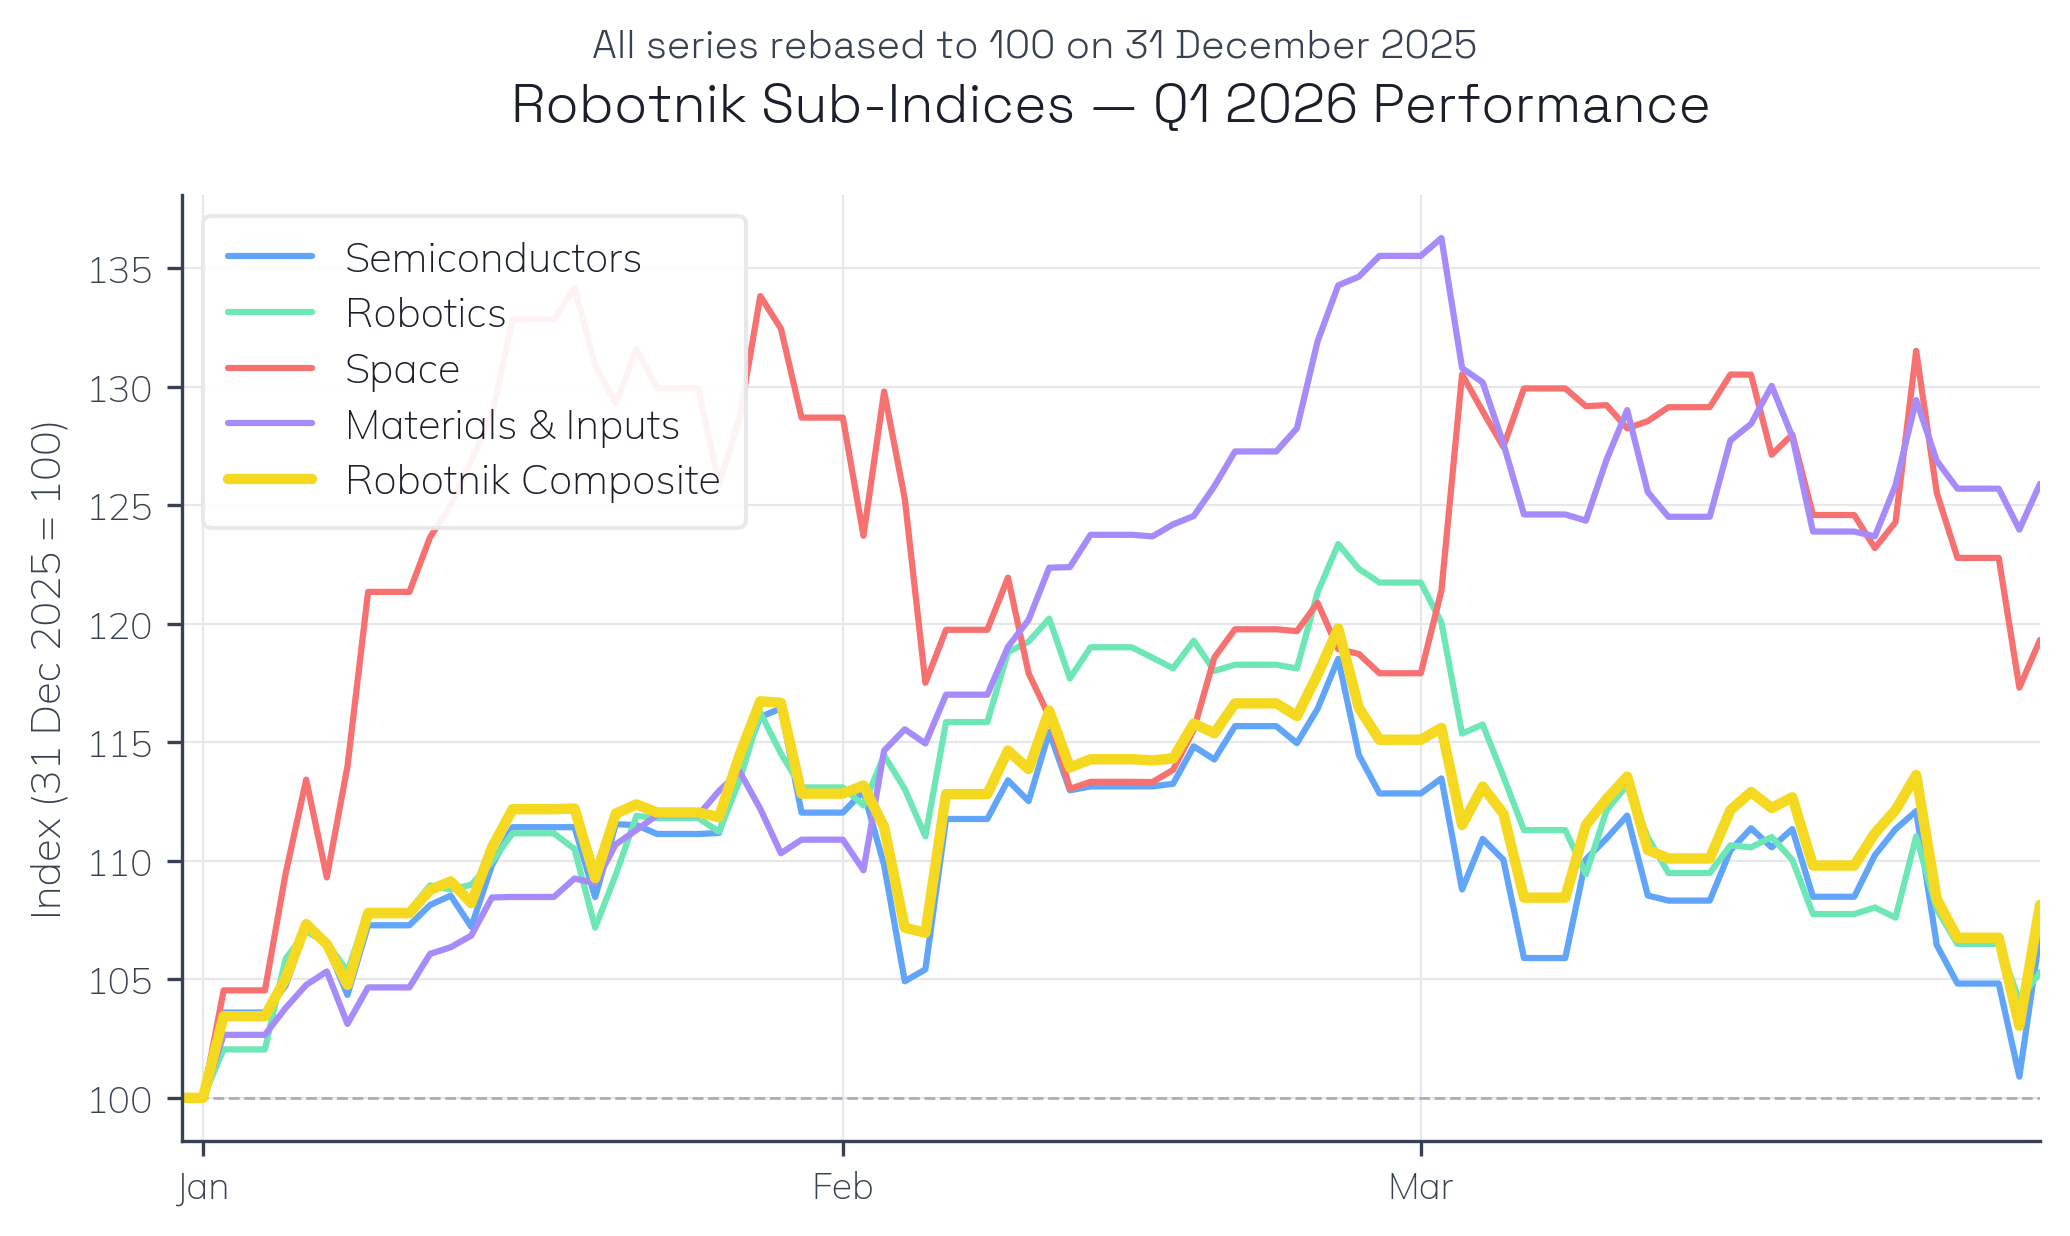
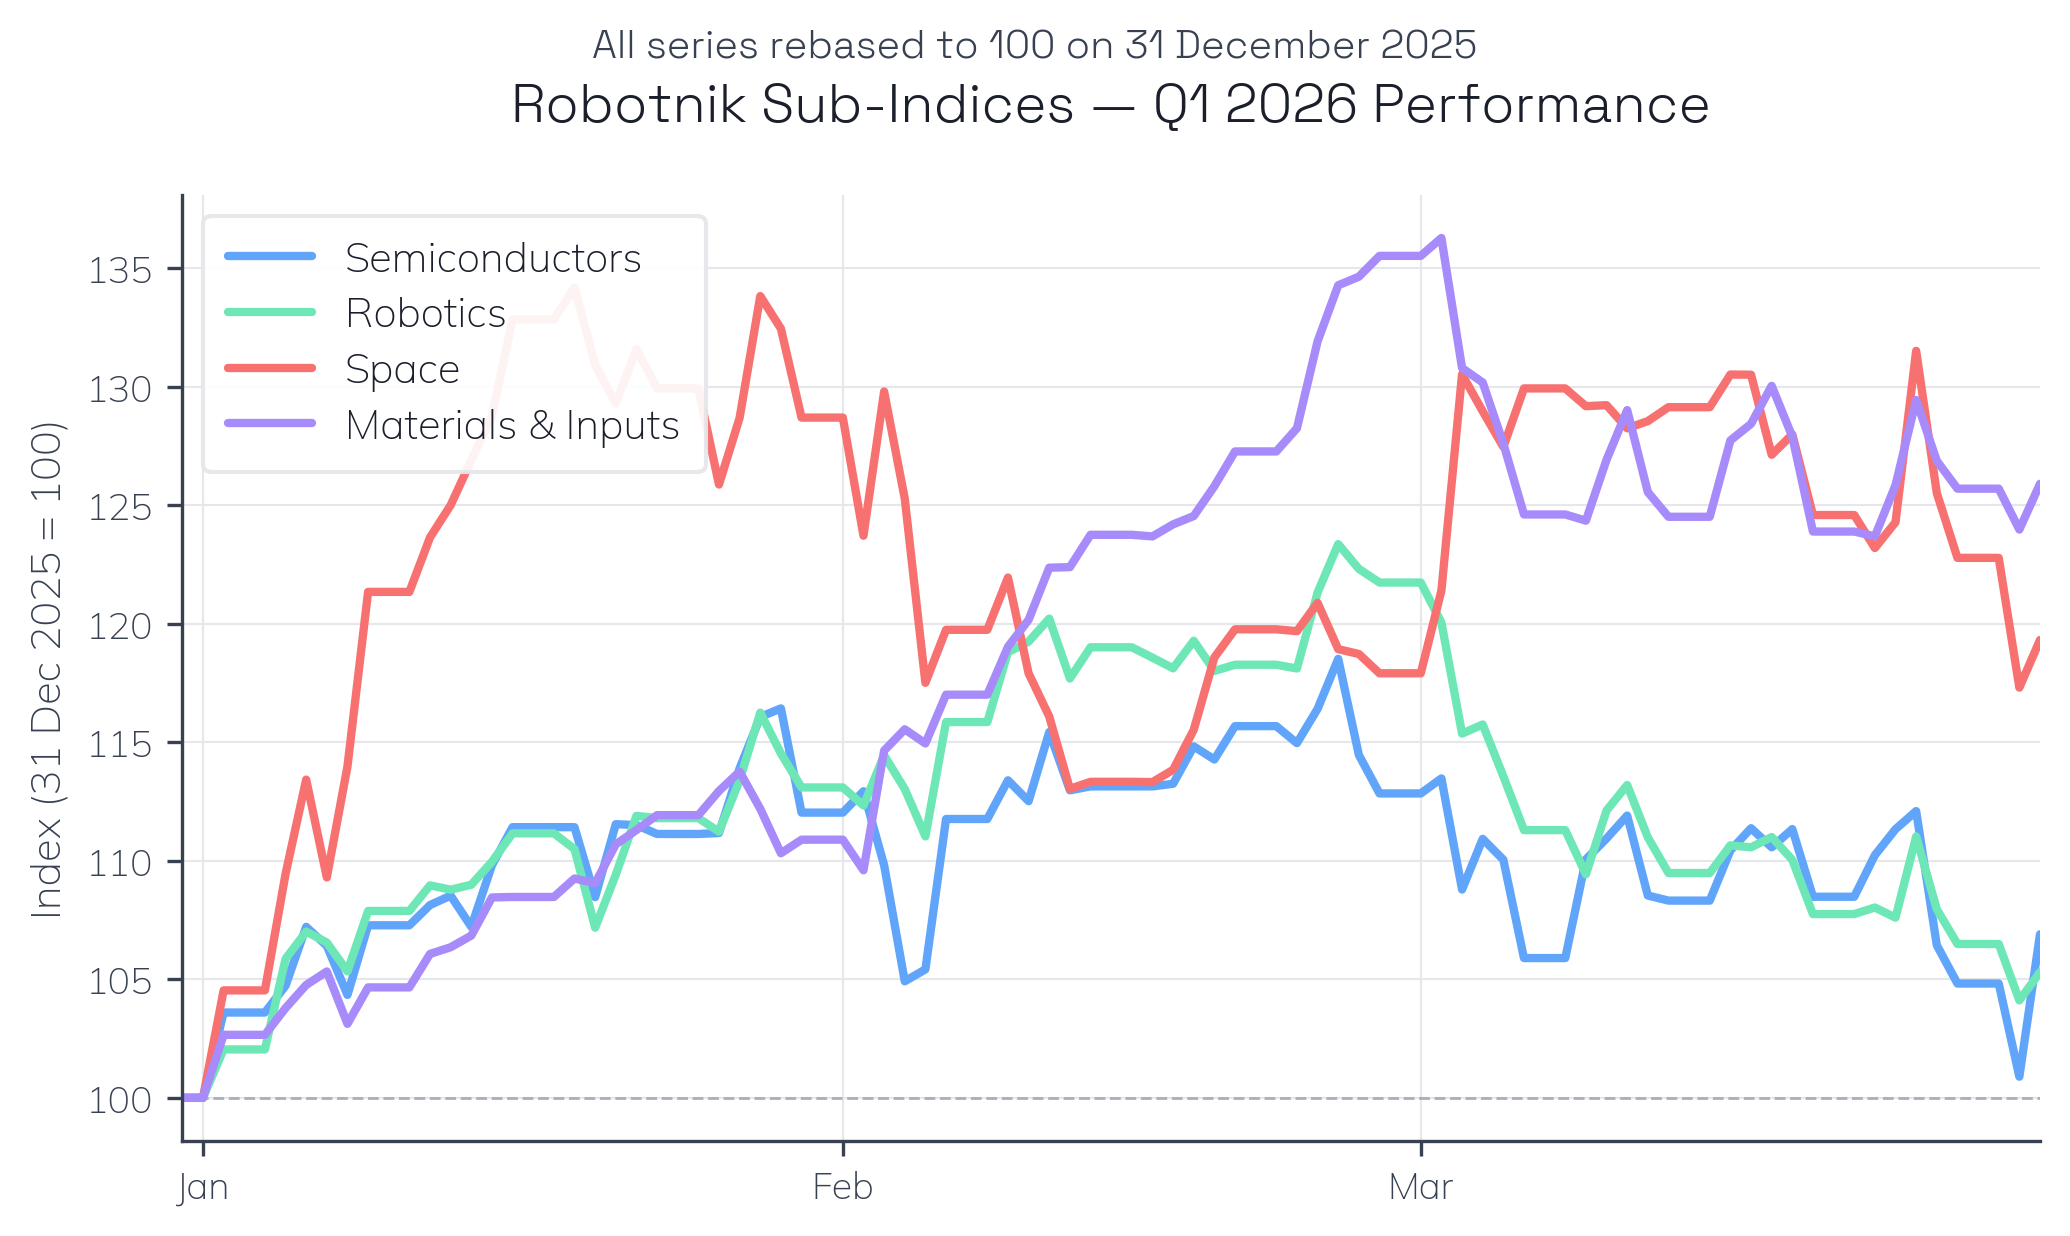
chore(charts): drop Composite line from Figure 3 (sub-indices only)
Fig 3 now shows only the four sub-indices (Semi, Robotics, Space,
Materials & Inputs) without the Composite yellow hero on top. The
Composite is already the subject of Figs 1 and 2; leaving it in Fig 3
muddied the sector-attribution panel. Sub-index linewidth nudged
from 1.5 to 2.0 since they're no longer sitting under a heavier hero.

31 Mar 2026 closes (rebased 100):
  Semiconductors      106.90
  Robotics            105.30
  Space               119.32
  Materials & Inputs  125.91

diff --git a/scripts/generate_index_charts.py b/scripts/generate_index_charts.py
@@ -237,7 +237,10 @@ def fig3_subindex_comparison():
     start = _as_dt("2025-12-31")
     end   = _as_dt("2026-03-31")
 
-    comp = rebase_to(slice_between(load_composite(), start, end), start)
+    # Fig 3 shows ONLY the four sub-indices (Composite is the subject
+    # of Figs 1 and 2). Keeps the sector-performance comparison clean
+    # without a yellow hero line that visually dominates the panel
+    # Robert is using for sector attribution.
     subs = {
         k: rebase_to(slice_between(load_sub(k), start, end), start)
         for k in ("semiconductor", "robotics", "space", "materials")
@@ -253,16 +256,16 @@ def fig3_subindex_comparison():
     fig, ax = plt.subplots(figsize=SIZE)
     ax.axhline(100, **base_ref_kw())
 
-    # Plot sub-indices first so the Composite hero sits on top.
     for key in ("semiconductor", "robotics", "space", "materials"):
         s = subs[key]
         xs = [d for d, _ in s]
         ys = [v for _, v in s]
-        ax.plot(xs, ys, **secondary_kw(PALETTE.subindices[key], label=labels[key]))
-
-    cxs = [d for d, _ in comp]
-    cys = [v for _, v in comp]
-    ax.plot(cxs, cys, **composite_kw(label="Robotnik Composite"))
+        # Lift sub-index weight a notch — no hero line sitting on top
+        # of them any more, so they can carry the whole chart's visual
+        # emphasis at 2.0pt rather than the 1.5pt secondary default.
+        kw = secondary_kw(PALETTE.subindices[key], label=labels[key])
+        kw["linewidth"] = 2.0
+        ax.plot(xs, ys, **kw)
 
     ax.set_title("Robotnik Sub-Indices — Q1 2026 Performance",
                  fontproperties=title_font())
@@ -279,9 +282,7 @@ def fig3_subindex_comparison():
 
     fig.tight_layout(rect=[0, 0, 1, 0.90])
 
-    closes = {"Robotnik Composite": comp[-1][1]}
-    for k in subs:
-        closes[labels[k]] = subs[k][-1][1]
+    closes = {labels[k]: subs[k][-1][1] for k in subs}
     return fig, closes
 
 
